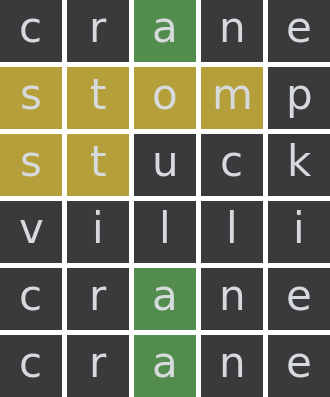
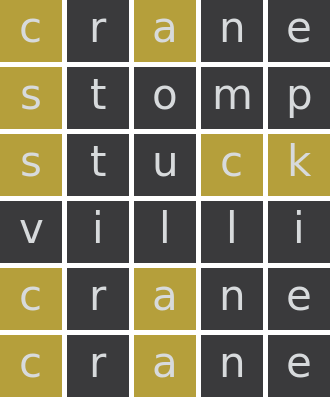
Clearing the JSON guesses array after a game has been played. Edited the template string response.

diff --git a/app.js b/app.js
@@ -1,3 +1,4 @@
+//import "./music.js";
 import "dotenv/config";
 import express from "express";
 import { getRPSChoices } from "./rps.js";
@@ -27,7 +28,6 @@ import fs from "fs";
 import e from "express";
 
 const app = express();
-app.use(express.json());
 const PORT = process.env.PORT || 3000;
 
 // Store for in-progress games
@@ -148,7 +148,7 @@ app.post(
             ✅ Correct! The word was "${answer}".`;
             } else {
               response_template += `${response_string}
-            <@${userId}>'s guess: ❌ "${guess}" is not the word of the day. Try again!`;
+<@${userId}>'s guess: ❌ "${guess}" is not the word of the day. Try again!`;
             }
           } else {
             clear_guesses(userId);
@@ -342,48 +342,28 @@ Play again tommorow.`
       }
 
       // --- Help command ---
-  if (name === "help") {
-  const banner = `🎮 **Game Rules & Point System**
+      if (name === "help") {
+        const banner =
+          "🎮 Game Rules & Point System\n\nPlay games to earn points and compete with friends!";
+        return res.send({
+          type: InteractionResponseType.CHANNEL_MESSAGE_WITH_SOURCE,
+          data: {
+            flags: InteractionResponseFlags.IS_COMPONENTS_V2,
+            components: [
+              { type: MessageComponentTypes.TEXT_DISPLAY, content: banner },
+            ],
+          },
+        });
+      }
 
-With this bot you will be able to play games to earn points and compete with your friends!
+      console.error(`unknown command: ${name}`);
+      return res.status(400).json({ error: "unknown command" });
+    }
 
-📊 **Available Games**
-• Wordle - Daily word puzzle
-• Chess - Strategic board game
-• Rock Paper Scissors - Quick matches
-• More games coming soon!
-
-🏆 **Point System**
-Different games award different point amounts:
-• Winning games: Earn points based on game difficulty
-• Losing games: Lose points when defeated by other players
-• Daily bonuses: Extra points for consistent play
-
-📈 **Leaderboard**
-Use \`/leaderboard\` to check your standings and compete with friends!
-
-🎁 **Rewards**
-Earn enough points to unlock exclusive rewards:
-• Custom Emotes - Show off your achievements
-• Special Roles - Unique roles in the server
-• Badges - Display your gaming prowess
-• More rewards as you level up!
-
-⚡ **Getting Started**
-Use \`/challenge\` to start a Rock Paper Scissors match!
-
-Happy gaming! 🎯`;
-
-  return res.send({
-    type: InteractionResponseType.CHANNEL_MESSAGE_WITH_SOURCE,
-    data: {
-      flags: InteractionResponseFlags.IS_COMPONENTS_V2,
-      components: [
-        { type: MessageComponentTypes.TEXT_DISPLAY, content: banner },
-      ],
-    },
-  });
-}
+    console.error("unknown interaction type", type);
+    return res.status(400).json({ error: "unknown interaction type" });
+  },
+);
 
 app.listen(PORT, () => {
   console.log("Listening on port", PORT);

diff --git a/wordler.js b/wordler.js
@@ -241,4 +241,5 @@ export function clear_guesses(userId){
     let user = users.find(user => user.userID === userId);
     const empty_arr = [];
     user.guesses = empty_arr;
+    fs.writeFileSync(wordle_file, JSON.stringify(users, null, 2));
 }
